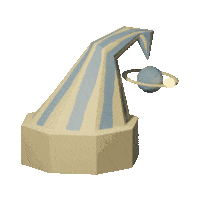
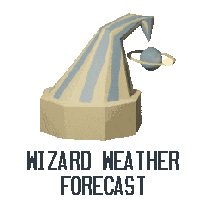
Build: clock, star3000 font
- added custom font for ui

- built clock that responds to timezone

- add sameSite: "strict" to session cookie

- updated wizard logo

diff --git a/public/styles/styles.css b/public/styles/styles.css
@@ -1,8 +1,23 @@
+@font-face {
+  font-family: "star3000";
+  src: url(../Star3000.ttf);
+}
+@font-face {
+  font-family: "star3000";
+  src: url(../Star3000\ Heavy.ttf);
+  font-weight: bold;
+}
+
 html {
   --back: #163413;
   --fore: #f9e5d7;
-  font-family: ui-monospace, 'Cascadia Code', 'Source Code Pro', Menlo, Consolas, 'DejaVu Sans Mono', monospace; 
+  font-family:
+    "star3000", ui-monospace, "Cascadia Code", "Source Code Pro", Menlo,
+    Consolas, "DejaVu Sans Mono", monospace;
+
+  text-shadow: 2px 2px black;
   background-color: var(--back);
+  min-height: 100%;
 }
 
 html::before {
@@ -22,12 +37,14 @@ body {
   color: var(--fore);
   font-size: 1.3rem;
   padding: 20px;
+  padding-bottom: 0;
 
   width: 100vw;
+  min-height: 100vh;
 
   display: flex;
   flex-direction: column;
-  justify-content: space-evenly;
+  justify-content: space-between;
   align-items: center;
   gap: 40px;
 }
@@ -38,6 +55,8 @@ header {
   justify-content: space-between;
   align-items: center;
   gap: 20px;
+
+  width: min(1000px, 100%);
 }
 
 main {
@@ -55,8 +74,15 @@ main {
   width: 200px;
 }
 
+button.tv {
+  appearance: none;
+  margin: 0;
+  padding: 0;
+  font: inherit;
+}
+
 div.init_tv,
-div.tv {
+button.tv {
   --height: calc(600px);
   --height_top: calc(var(--height) * 0.7);
   --height_bottom: calc(var(--height) * 0.3);
@@ -71,14 +97,13 @@ div.tv {
 
   background: transparent;
   display: grid;
-  border-radius: 16px;
 
   & * {
     cursor: pointer;
   }
 }
 
-div.tv {
+button.tv {
   width: 100%;
   height: 100%;
 }
@@ -97,7 +122,7 @@ div.tv_top::after {
   right: 0;
   bottom: 0;
   left: 0;
-  box-shadow: inset 0px 0px 10px 15px #62b2d363;
+  box-shadow: inset 0px 0px 0.8vw 1vw #62b2d363;
 }
 
 div.tv__graphic {
@@ -154,6 +179,9 @@ div.tv_bottom {
   padding: 20px;
   overflow-y: scroll;
   z-index: 3;
+  font-family:
+    ui-monospace, "Cascadia Code", "Source Code Pro", Menlo, Consolas,
+    "DejaVu Sans Mono", monospace;
 
   p {
     animation: fade-in 0.6s cubic-bezier(0.39, 0.575, 0.565, 1) both;
@@ -173,7 +201,7 @@ div.tv_bottom {
 
 @media screen and (max-width: 560px) {
   div.init_tv,
-  div.tv {
+  button.tv {
     --height: 500px;
     --height_top: calc(var(--height) * 0.5);
     --height_bottom: calc(var(--height) * 0.5);
@@ -194,7 +222,7 @@ div.tv_bottom {
 
 @media screen and (max-width: 350px) {
   div.init_tv,
-  div.tv {
+  button.tv {
     --height: 400px;
     --height_top: calc(var(--height) * 0.35);
     --height_bottom: calc(var(--height) * 0.65);
@@ -207,6 +235,19 @@ div.tv_bottom {
   div.tv__reporter {
     width: min(200px, 30%);
   }
+}
+
+footer {
+  background-color: #2e4d84;
+  width: 100vw;
+  border-top: 2px solid whitesmoke;
+  box-shadow: 0 -6px 0 #2e4d84;
+  padding: 20px 10px;
+
+  display: flex;
+  gap: 20px;
+  flex-wrap: wrap;
+  justify-content: space-between;
 }
 
 /* ======= scanline styling ====== */
@@ -245,7 +286,7 @@ div.tv_bottom {
   filter: brightness(120%) contrast(80%) saturate(140%);
 }
 
-body:not(.scanline) .filter {
+body:not(.scanlines) .filter {
   filter: brightness(100%) contrast(80%) saturate(140%);
 }
 

diff --git a/controllers/reportController.js b/controllers/reportController.js
@@ -3,12 +3,12 @@ function fillReport({ currently, hourly, daily, datetime, location }) {
     {
       text: `Kia ora <span class="bold">${location}</span>! It is currently <span class="bold">${datetime}.</span>`,
       icon: "wizard.png",
-      alt: "wizard hat spinning"
+      alt: "wizard weather forecast logo"
     },
     {
-      text: `You're watching the <span class="bold">Wizard Weather Forecast</span> and I am your reporter Tellie, here to bring you the latest weather update.`,
+      text: `You're watching the <span class="bold">Wizard Weather Forecast</span>. I am your reporter <span class="bold">Tellie</span>, bringing you the latest weather update.`,
       icon: "wizard.png",
-      alt: "wizard hat spinning"
+      alt: "wizard weather forecast logo"
     },
     {
       text: `Right now, the conditions are <span class="bold">"${currently.condition.toLowerCase()}"</span>. It feels like <span class="bold">${currently.temperature}°C</span>.`,
@@ -28,7 +28,7 @@ function fillReport({ currently, hourly, daily, datetime, location }) {
     {
       text: `...And that's it for the weather report. Thanks for tuning in!`,
       icon: "wizard.png",
-      alt: "wizard hat spinning"
+      alt: "wizard weather forecast logo"
     },
   ];
 
@@ -53,7 +53,7 @@ export async function click(req, res) {
   }
 
   res.setHeader("Content-Type", "text/html").send(
-    `<div class="tv" hx-post="/clicked/${index}" hx-trigger="click" hx-swap="outerHTML">
+    `<button class="tv" hx-post="/clicked/${index}" hx-trigger="click" hx-swap="outerHTML">
 
       <div class="tv_top">
         <div class="tv__graphic">
@@ -66,6 +66,6 @@ export async function click(req, res) {
       <div class="tv_bottom">
         <p>${report[index].text}</p>
       </div>
-    </div>`,
+    </button>`,
   );
 }

diff --git a/app.js b/app.js
@@ -27,6 +27,7 @@ app.use(
     saveUninitialized: false,
     cookie: {
       maxAge: 1000 * 60 * 60 * 24,
+      sameSite: "strict",
     },
   }),
 );

diff --git a/controllers/indexController.js b/controllers/indexController.js
@@ -137,5 +137,7 @@ export async function displayWeather(req, res) {
     hourly: hourly,
 
     daily: daily,
+
+    timezone: currentTimezone
   });
 }
